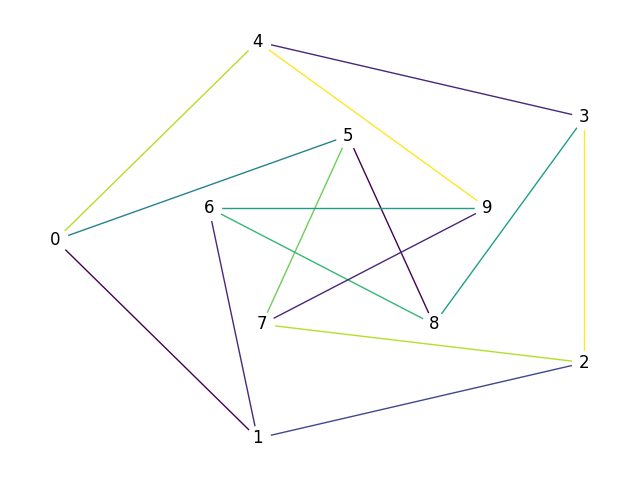
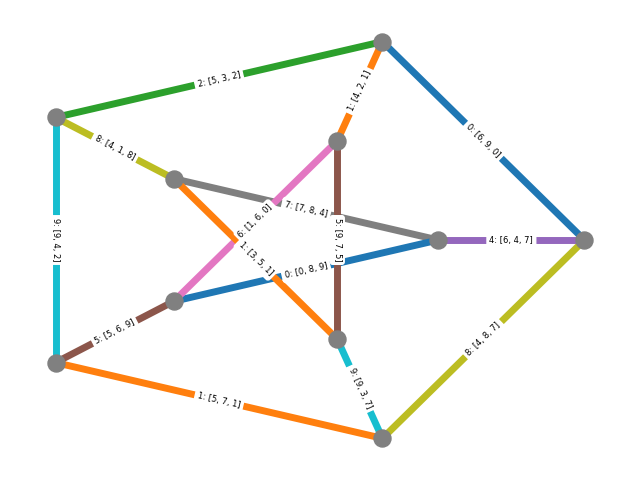
Improve the shell drawing of the Petersen graph.

diff --git a/src/petersen-shell.py b/src/petersen-shell.py
@@ -9,9 +9,14 @@ G = nx.petersen_graph()
 G = list_init(G, range(0, 10), 3, 0)
 G = greedy_list_edge_colouring(G)
     
-options = {'with_labels': True, 'node_color': "white"}
 colors = nx.get_edge_attributes(G,'colour').values()
 
-nx.draw_shell(G, nlist = [range(5, 10), range(5)], edge_color = colors, **options)
+options = {'with_labels': False, "edge_cmap": plt.cm.tab10}
+
+G_layout = nx.shell_layout(G, nlist = [range(5, 10), range(5)], rotate = 0.)
+nx.draw(G, G_layout, edge_color = colors, width = 5, node_size = 150, node_color = 'grey', **options)
+edge_labels = dict([((n1, n2), str(d['colour']) + ': ' + str(d['permissible'])) for n1, n2, d in G.edges(data = True)])
+
+nx.draw_networkx_edge_labels(G, pos = G_layout, edge_labels = edge_labels, font_size = 6)
 
 plt.savefig("png/petersen-shell.png", format = "PNG")
